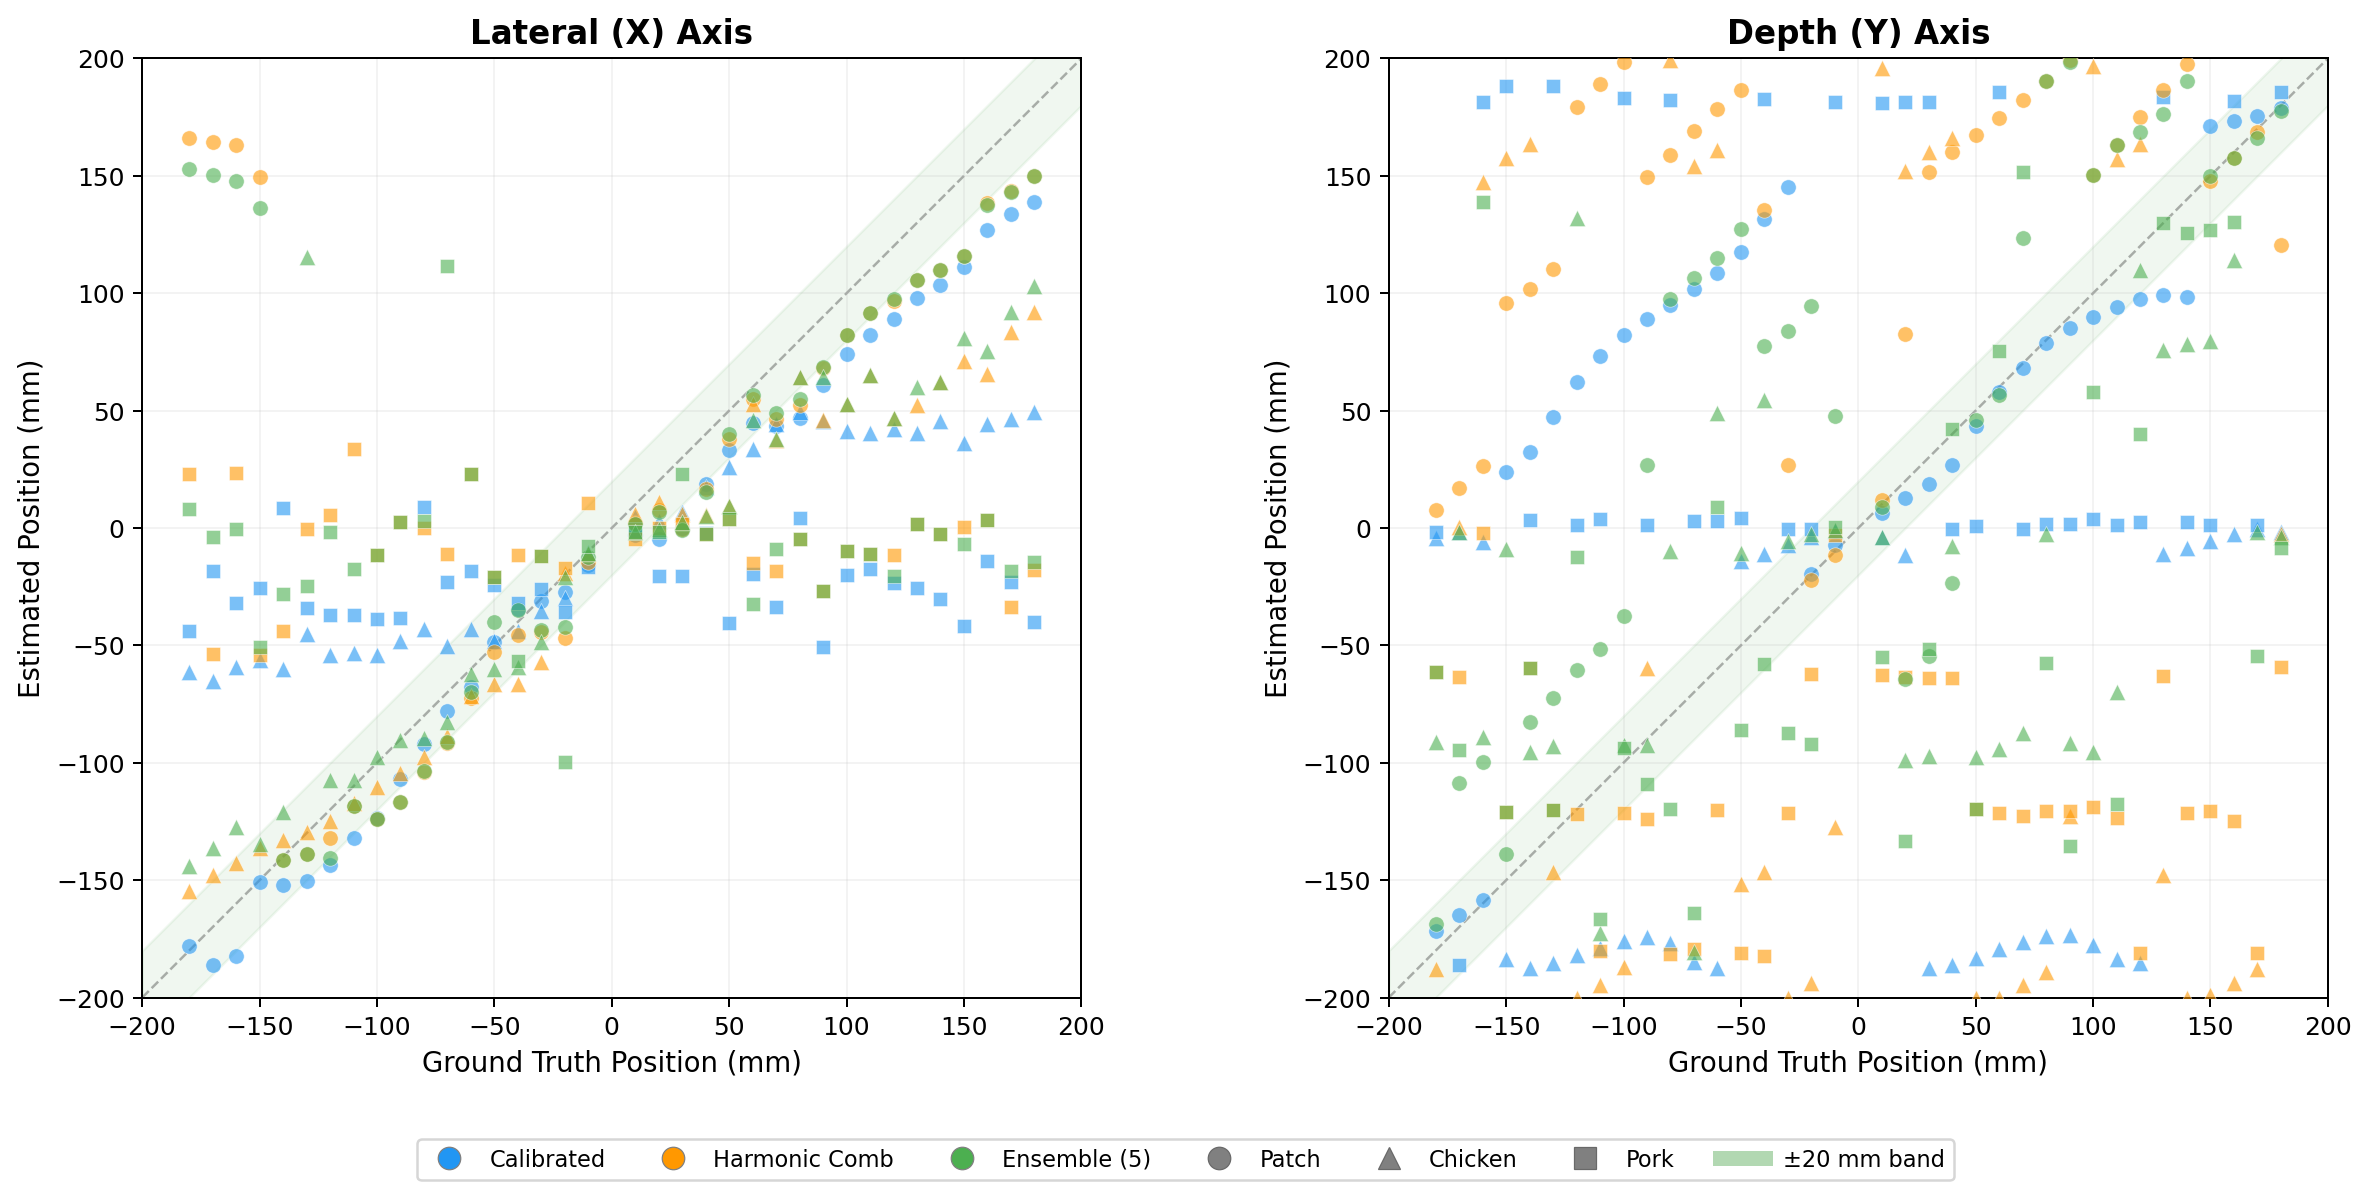
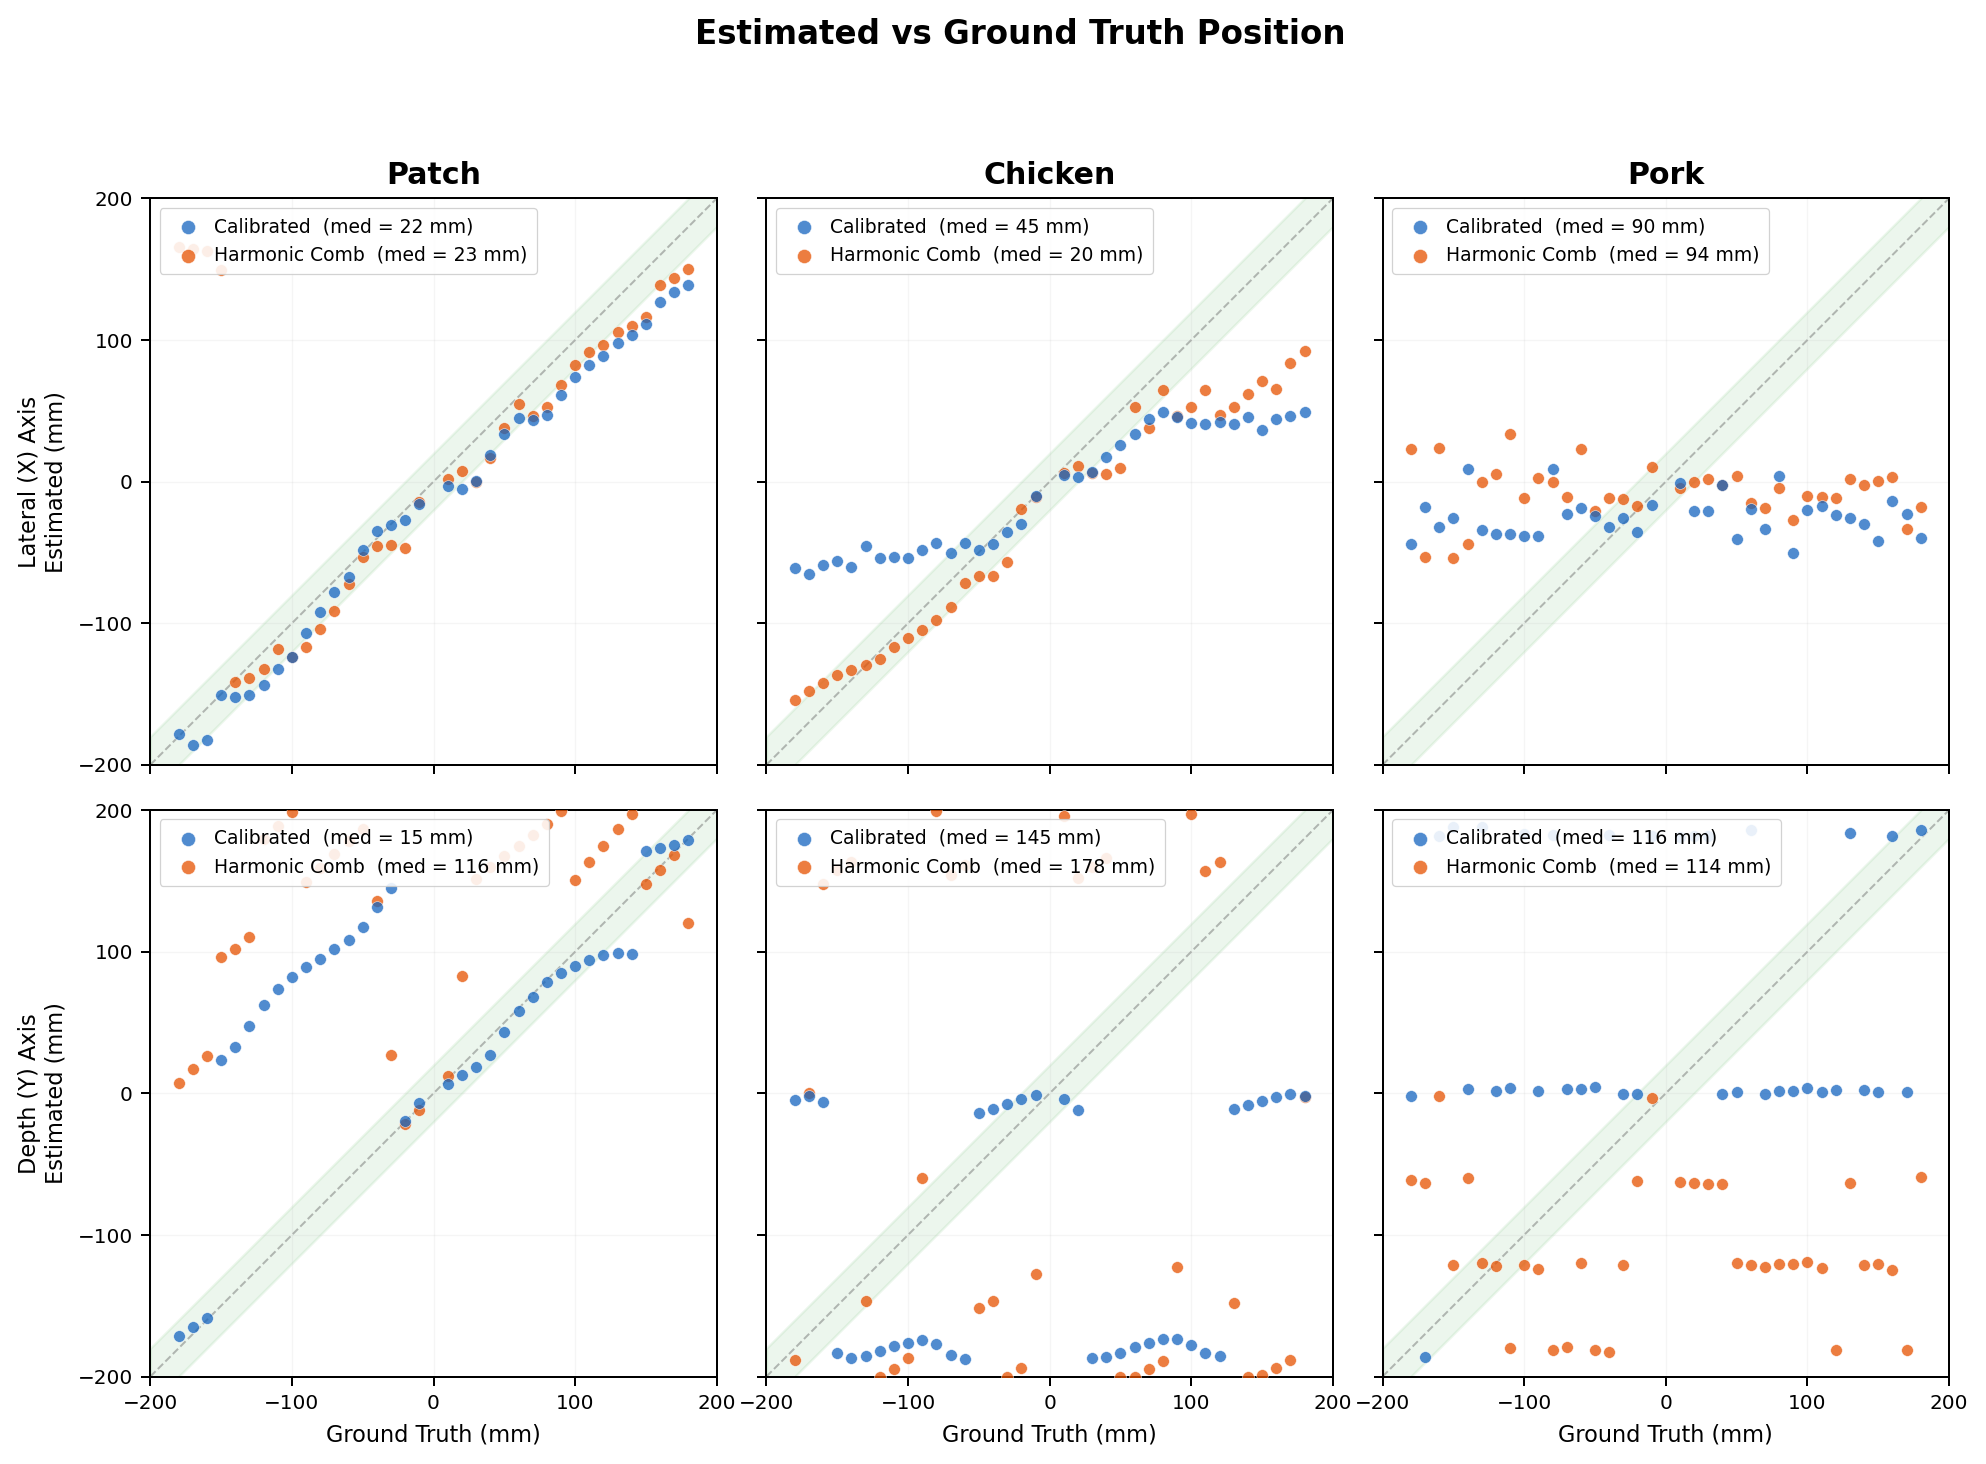
Redesign overview plot: 2x3 small multiples, drop ensemble

diff --git a/experiments/plot_overview.py b/experiments/plot_overview.py
@@ -1,10 +1,10 @@
 """
 plot_overview.py — Generate the main overview figure:
-  Estimated vs Ground Truth target position for all algorithms and tissues.
+  Estimated vs Ground Truth target position.
 
-  - Rows: X-axis (lateral), Y-axis (depth)
-  - Symbols: tissue type (Patch=circle, Chicken=triangle, Pork=square)
-  - Colors: algorithm (Calibrated=blue, Harmonic Comb=orange, Ensemble=green)
+  Layout: 2 rows (X-axis, Y-axis) × 3 columns (Patch, Chicken, Pork)
+  Each subplot: Calibrated (blue) vs Harmonic Comb (orange)
+  Perfect-prediction diagonal + ±20 mm shaded band in each panel.
 """
 
 import sys
@@ -13,33 +13,27 @@ from pathlib import Path
 sys.path.insert(0, str(Path(__file__).resolve().parent.parent))
 
 import numpy as np
-import pandas as pd
 import matplotlib
 matplotlib.use('Agg')
 import matplotlib.pyplot as plt
-from matplotlib.lines import Line2D
+import matplotlib.ticker as ticker
 
-from src.config import (
-    ALL_HARMONICS, PAIR_A, CALIBRATION_TARGET_POS,
-)
+from src.config import ALL_HARMONICS, CALIBRATION_TARGET_POS
 from src.data import (
     load_dataset, get_aggregated_data, get_phase_matrix,
     get_available_target_positions,
 )
 from src.localize import CalibratedLocalizer, HarmonicCombinationLocalizer
-from experiments.report_freq_pairs import GeneralizedHarmonicCombLocalizer
 
 REPO_ROOT = Path(__file__).resolve().parent.parent
 OUTDIR = REPO_ROOT / 'results'
 
 
 def run_calibrated(df, axis, category):
-    """Run calibrated localizer, return list of (gt, est)."""
     agg = get_aggregated_data(df, category, axis)
     if agg.empty:
         return []
-    freqs = ALL_HARMONICS
-    cal_data = get_phase_matrix(agg, CALIBRATION_TARGET_POS, freqs)
+    cal_data = get_phase_matrix(agg, CALIBRATION_TARGET_POS, ALL_HARMONICS)
     if cal_data is None:
         return []
     loc = CalibratedLocalizer(
@@ -51,23 +45,22 @@ def run_calibrated(df, axis, category):
     for tp in get_available_target_positions(agg):
         if tp == CALIBRATION_TARGET_POS:
             continue
-        data = get_phase_matrix(agg, tp, freqs)
+        data = get_phase_matrix(agg, tp, ALL_HARMONICS)
         if data is None:
             continue
         try:
             est, _ = loc.localize(data['phases'], data['powers'])
-            results.append((tp, est))
+            results.append((float(tp), float(est)))
         except Exception:
             continue
     return results
 
 
 def run_harmonic_comb(df, axis, category):
-    """Run harmonic combination localizer, return list of (gt, est)."""
     agg = get_aggregated_data(df, category, axis)
     if agg.empty:
         return []
-    cal_790 = get_phase_matrix(agg, CALIBRATION_TARGET_POS, [790])
+    cal_790  = get_phase_matrix(agg, CALIBRATION_TARGET_POS, [790])
     cal_1700 = get_phase_matrix(agg, CALIBRATION_TARGET_POS, [1700])
     if cal_790 is None or cal_1700 is None:
         return []
@@ -79,64 +72,15 @@ def run_harmonic_comb(df, axis, category):
     for tp in get_available_target_positions(agg):
         if tp == CALIBRATION_TARGET_POS:
             continue
-        d790 = get_phase_matrix(agg, tp, [790])
+        d790  = get_phase_matrix(agg, tp, [790])
         d1700 = get_phase_matrix(agg, tp, [1700])
         if d790 is None or d1700 is None:
             continue
         try:
             est, _ = loc.localize(d790['phases'][:, 0], d1700['phases'][:, 0])
-            results.append((tp, est))
+            results.append((float(tp), float(est)))
         except Exception:
             continue
-    return results
-
-
-def run_ensemble(df, axis, category, n_top=5):
-    """Run ensemble of top-5 HC pairs, return list of (gt, est)."""
-    freq_csv = REPO_ROOT / 'results' / 'freq_pair_comparison.csv'
-    if not freq_csv.exists():
-        return []
-    freq_df = pd.read_csv(freq_csv)
-    mask = (freq_df['axis'] == axis) & (freq_df['category'] == category)
-    sub = freq_df[mask].sort_values('median_error')
-    if sub.empty:
-        return []
-    top_pairs = list(zip(sub['freq_a'].astype(int), sub['freq_b'].astype(int)))[:n_top]
-
-    agg = get_aggregated_data(df, category, axis)
-    if agg.empty:
-        return []
-
-    # Build and calibrate localizers for each pair
-    localizers = []
-    for fa, fb in top_pairs:
-        cal_a = get_phase_matrix(agg, CALIBRATION_TARGET_POS, [fa])
-        cal_b = get_phase_matrix(agg, CALIBRATION_TARGET_POS, [fb])
-        if cal_a is None or cal_b is None:
-            continue
-        loc = GeneralizedHarmonicCombLocalizer(
-            fa, fb, cal_a['ant_pos'], dataset_axis=axis, category=category,
-        )
-        loc.calibrate(cal_a['phases'][:, 0], cal_b['phases'][:, 0])
-        localizers.append((fa, fb, loc))
-
-    results = []
-    for tp in get_available_target_positions(agg):
-        if tp == CALIBRATION_TARGET_POS:
-            continue
-        estimates = []
-        for fa, fb, loc in localizers:
-            da = get_phase_matrix(agg, tp, [fa])
-            db = get_phase_matrix(agg, tp, [fb])
-            if da is None or db is None:
-                continue
-            try:
-                est, _ = loc.localize(da['phases'][:, 0], db['phases'][:, 0])
-                estimates.append(est)
-            except Exception:
-                continue
-        if estimates:
-            results.append((tp, float(np.median(estimates))))
     return results
 
 
@@ -146,103 +90,103 @@ def main():
     df = load_dataset(csv_path)
     print(f"  {len(df):,} rows\n")
 
-    categories = ['Patch', 'Chicken', 'Pork']
-    axes = ['x', 'y']
+    categories  = ['Patch', 'Chicken', 'Pork']
+    axes        = ['x', 'y']
+    axis_labels = {'x': 'Lateral (X) Axis', 'y': 'Depth (Y) Axis'}
 
-    # ── Marker / color scheme ──────────────────────────────────────
-    tissue_markers = {'Patch': 'o', 'Chicken': '^', 'Pork': 's'}
-    tissue_sizes   = {'Patch': 38,  'Chicken': 42,  'Pork': 34}
-    algo_colors    = {
-        'Calibrated':    '#2196F3',   # blue
-        'Harmonic Comb': '#FF9800',   # orange
-        'Ensemble (5)':  '#4CAF50',   # green
+    algos = {
+        'Calibrated':    {'fn': run_calibrated,    'color': '#1565C0', 'zorder': 4},
+        'Harmonic Comb': {'fn': run_harmonic_comb, 'color': '#E65100', 'zorder': 3},
     }
 
     # ── Collect all results ────────────────────────────────────────
-    all_data = {}  # (axis, category, algo) -> [(gt, est), ...]
+    data = {}  # (axis, cat, algo) -> [(gt, est)]
     for axis in axes:
         for cat in categories:
-            print(f"  Running {cat}/{axis}...", end='', flush=True)
-            cal_res = run_calibrated(df, axis, cat)
-            hc_res = run_harmonic_comb(df, axis, cat)
-            ens_res = run_ensemble(df, axis, cat)
-            all_data[(axis, cat, 'Calibrated')] = cal_res
-            all_data[(axis, cat, 'Harmonic Comb')] = hc_res
-            all_data[(axis, cat, 'Ensemble (5)')] = ens_res
-            print(f"  cal={len(cal_res)}, hc={len(hc_res)}, ens={len(ens_res)}")
+            print(f"  {cat}/{axis} ...", end='', flush=True)
+            for algo_name, cfg in algos.items():
+                res = cfg['fn'](df, axis, cat)
+                data[(axis, cat, algo_name)] = res
+                print(f"  {algo_name[:3]}={len(res)}", end='', flush=True)
+            print()
 
-    # ── Plot ───────────────────────────────────────────────────────
-    fig, axes_arr = plt.subplots(1, 2, figsize=(14, 6.5))
+    # ── Plot: 2 rows × 3 cols ─────────────────────────────────────
+    fig, axes_arr = plt.subplots(
+        2, 3, figsize=(13, 8.5),
+        sharex=True, sharey=True,
+    )
+    fig.subplots_adjust(hspace=0.08, wspace=0.06)
 
-    for ai, axis in enumerate(axes):
-        ax = axes_arr[ai]
-        dim = 'Lateral (X)' if axis == 'x' else 'Depth (Y)'
+    lim  = 200
+    band = 20
 
-        for algo_name, color in algo_colors.items():
-            for cat in categories:
-                data = all_data.get((axis, cat, algo_name), [])
-                if not data:
+    for ri, axis in enumerate(axes):
+        for ci, cat in enumerate(categories):
+            ax = axes_arr[ri][ci]
+
+            # ±20 mm band
+            ax.fill_between(
+                [-lim, lim],
+                [-lim - band, lim - band],
+                [-lim + band, lim + band],
+                color='#4CAF50', alpha=0.10, zorder=0,
+            )
+
+            # Perfect prediction diagonal
+            ax.plot([-lim, lim], [-lim, lim],
+                    color='#555', lw=0.8, ls='--', alpha=0.4, zorder=1)
+
+            for algo_name, cfg in algos.items():
+                pts = data.get((axis, cat, algo_name), [])
+                if not pts:
                     continue
-                gt = np.array([d[0] for d in data])
-                est = np.array([d[1] for d in data])
-                marker = tissue_markers[cat]
-                ms = tissue_sizes[cat]
+                gt      = np.array([p[0] for p in pts])
+                est     = np.array([p[1] for p in pts])
+                med_err = float(np.median(np.abs(est - gt)))
 
-                ax.scatter(gt, est, s=ms, marker=marker, color=color,
-                           alpha=0.6, edgecolors='white', linewidths=0.3,
-                           zorder=3)
+                ax.scatter(
+                    gt, est, s=22,
+                    color=cfg['color'], alpha=0.75,
+                    edgecolors='white', linewidths=0.25,
+                    zorder=cfg['zorder'],
+                    label=f'{algo_name}  (med = {med_err:.0f} mm)',
+                )
 
-        # Perfect prediction line
-        ax.plot([-200, 200], [-200, 200], 'k--', lw=1.0, alpha=0.3, zorder=1)
+            ax.set_xlim(-lim, lim)
+            ax.set_ylim(-lim, lim)
+            ax.set_aspect('equal')
+            ax.grid(True, alpha=0.12, lw=0.5)
+            ax.xaxis.set_major_locator(ticker.MultipleLocator(100))
+            ax.yaxis.set_major_locator(ticker.MultipleLocator(100))
+            ax.tick_params(labelsize=8)
 
-        # ±20mm band
-        ax.fill_between([-200, 200], [-220, 180], [-180, 220],
-                         alpha=0.06, color='green', zorder=0)
+            # Column title — top row only
+            if ri == 0:
+                ax.set_title(cat, fontsize=12, fontweight='bold', pad=6)
 
-        ax.set_xlim(-200, 200)
-        ax.set_ylim(-200, 200)
-        ax.set_aspect('equal')
-        ax.set_xlabel('Ground Truth Position (mm)', fontsize=11)
-        ax.set_ylabel('Estimated Position (mm)', fontsize=11)
-        ax.set_title(f'{dim} Axis', fontsize=13, fontweight='bold')
-        ax.grid(True, alpha=0.15)
+            # Row label — left column only
+            if ci == 0:
+                ax.set_ylabel(
+                    f'{axis_labels[axis]}\nEstimated (mm)',
+                    fontsize=9, labelpad=4,
+                )
 
-        # Add median error annotations
-        annot_lines = []
-        for algo_name in algo_colors:
-            for cat in categories:
-                data = all_data.get((axis, cat, algo_name), [])
-                if data:
-                    errs = [abs(d[1] - d[0]) for d in data]
-                    med = np.median(errs)
-                    annot_lines.append(f"{cat[:3]}/{algo_name[:3]}: {med:.0f}")
+            # X-axis label — bottom row only
+            if ri == len(axes) - 1:
+                ax.set_xlabel('Ground Truth (mm)', fontsize=9)
 
-    # ── Combined legend ────────────────────────────────────────────
-    # Algorithm colors
-    algo_handles = [
-        Line2D([0], [0], marker='o', color='w', markerfacecolor=c,
-               markersize=9, label=name, markeredgecolor='gray',
-               markeredgewidth=0.5)
-        for name, c in algo_colors.items()
-    ]
-    # Tissue markers
-    tissue_handles = [
-        Line2D([0], [0], marker=m, color='w', markerfacecolor='gray',
-               markersize=9, label=cat, markeredgecolor='dimgray',
-               markeredgewidth=0.5)
-        for cat, m in tissue_markers.items()
-    ]
-    # Band
-    band_handle = [
-        Line2D([0], [0], color='green', alpha=0.3, lw=6, label='±20 mm band')
-    ]
+            # Per-panel legend
+            leg = ax.legend(
+                fontsize=7.5, loc='upper left',
+                framealpha=0.88, edgecolor='#ccc',
+                handletextpad=0.4, borderpad=0.5,
+                markerscale=1.2,
+            )
+            leg.get_frame().set_linewidth(0.5)
 
-    all_handles = algo_handles + tissue_handles + band_handle
-    fig.legend(handles=all_handles, loc='lower center', ncol=7,
-               fontsize=9, frameon=True, fancybox=True,
-               bbox_to_anchor=(0.5, -0.02))
+    fig.suptitle('Estimated vs Ground Truth Position',
+                 fontsize=13, fontweight='bold', y=0.998)
 
-    plt.tight_layout(rect=[0, 0.06, 1, 1])
     outpath = OUTDIR / 'overview_predictions.png'
     fig.savefig(outpath, dpi=180, bbox_inches='tight')
     plt.close(fig)
